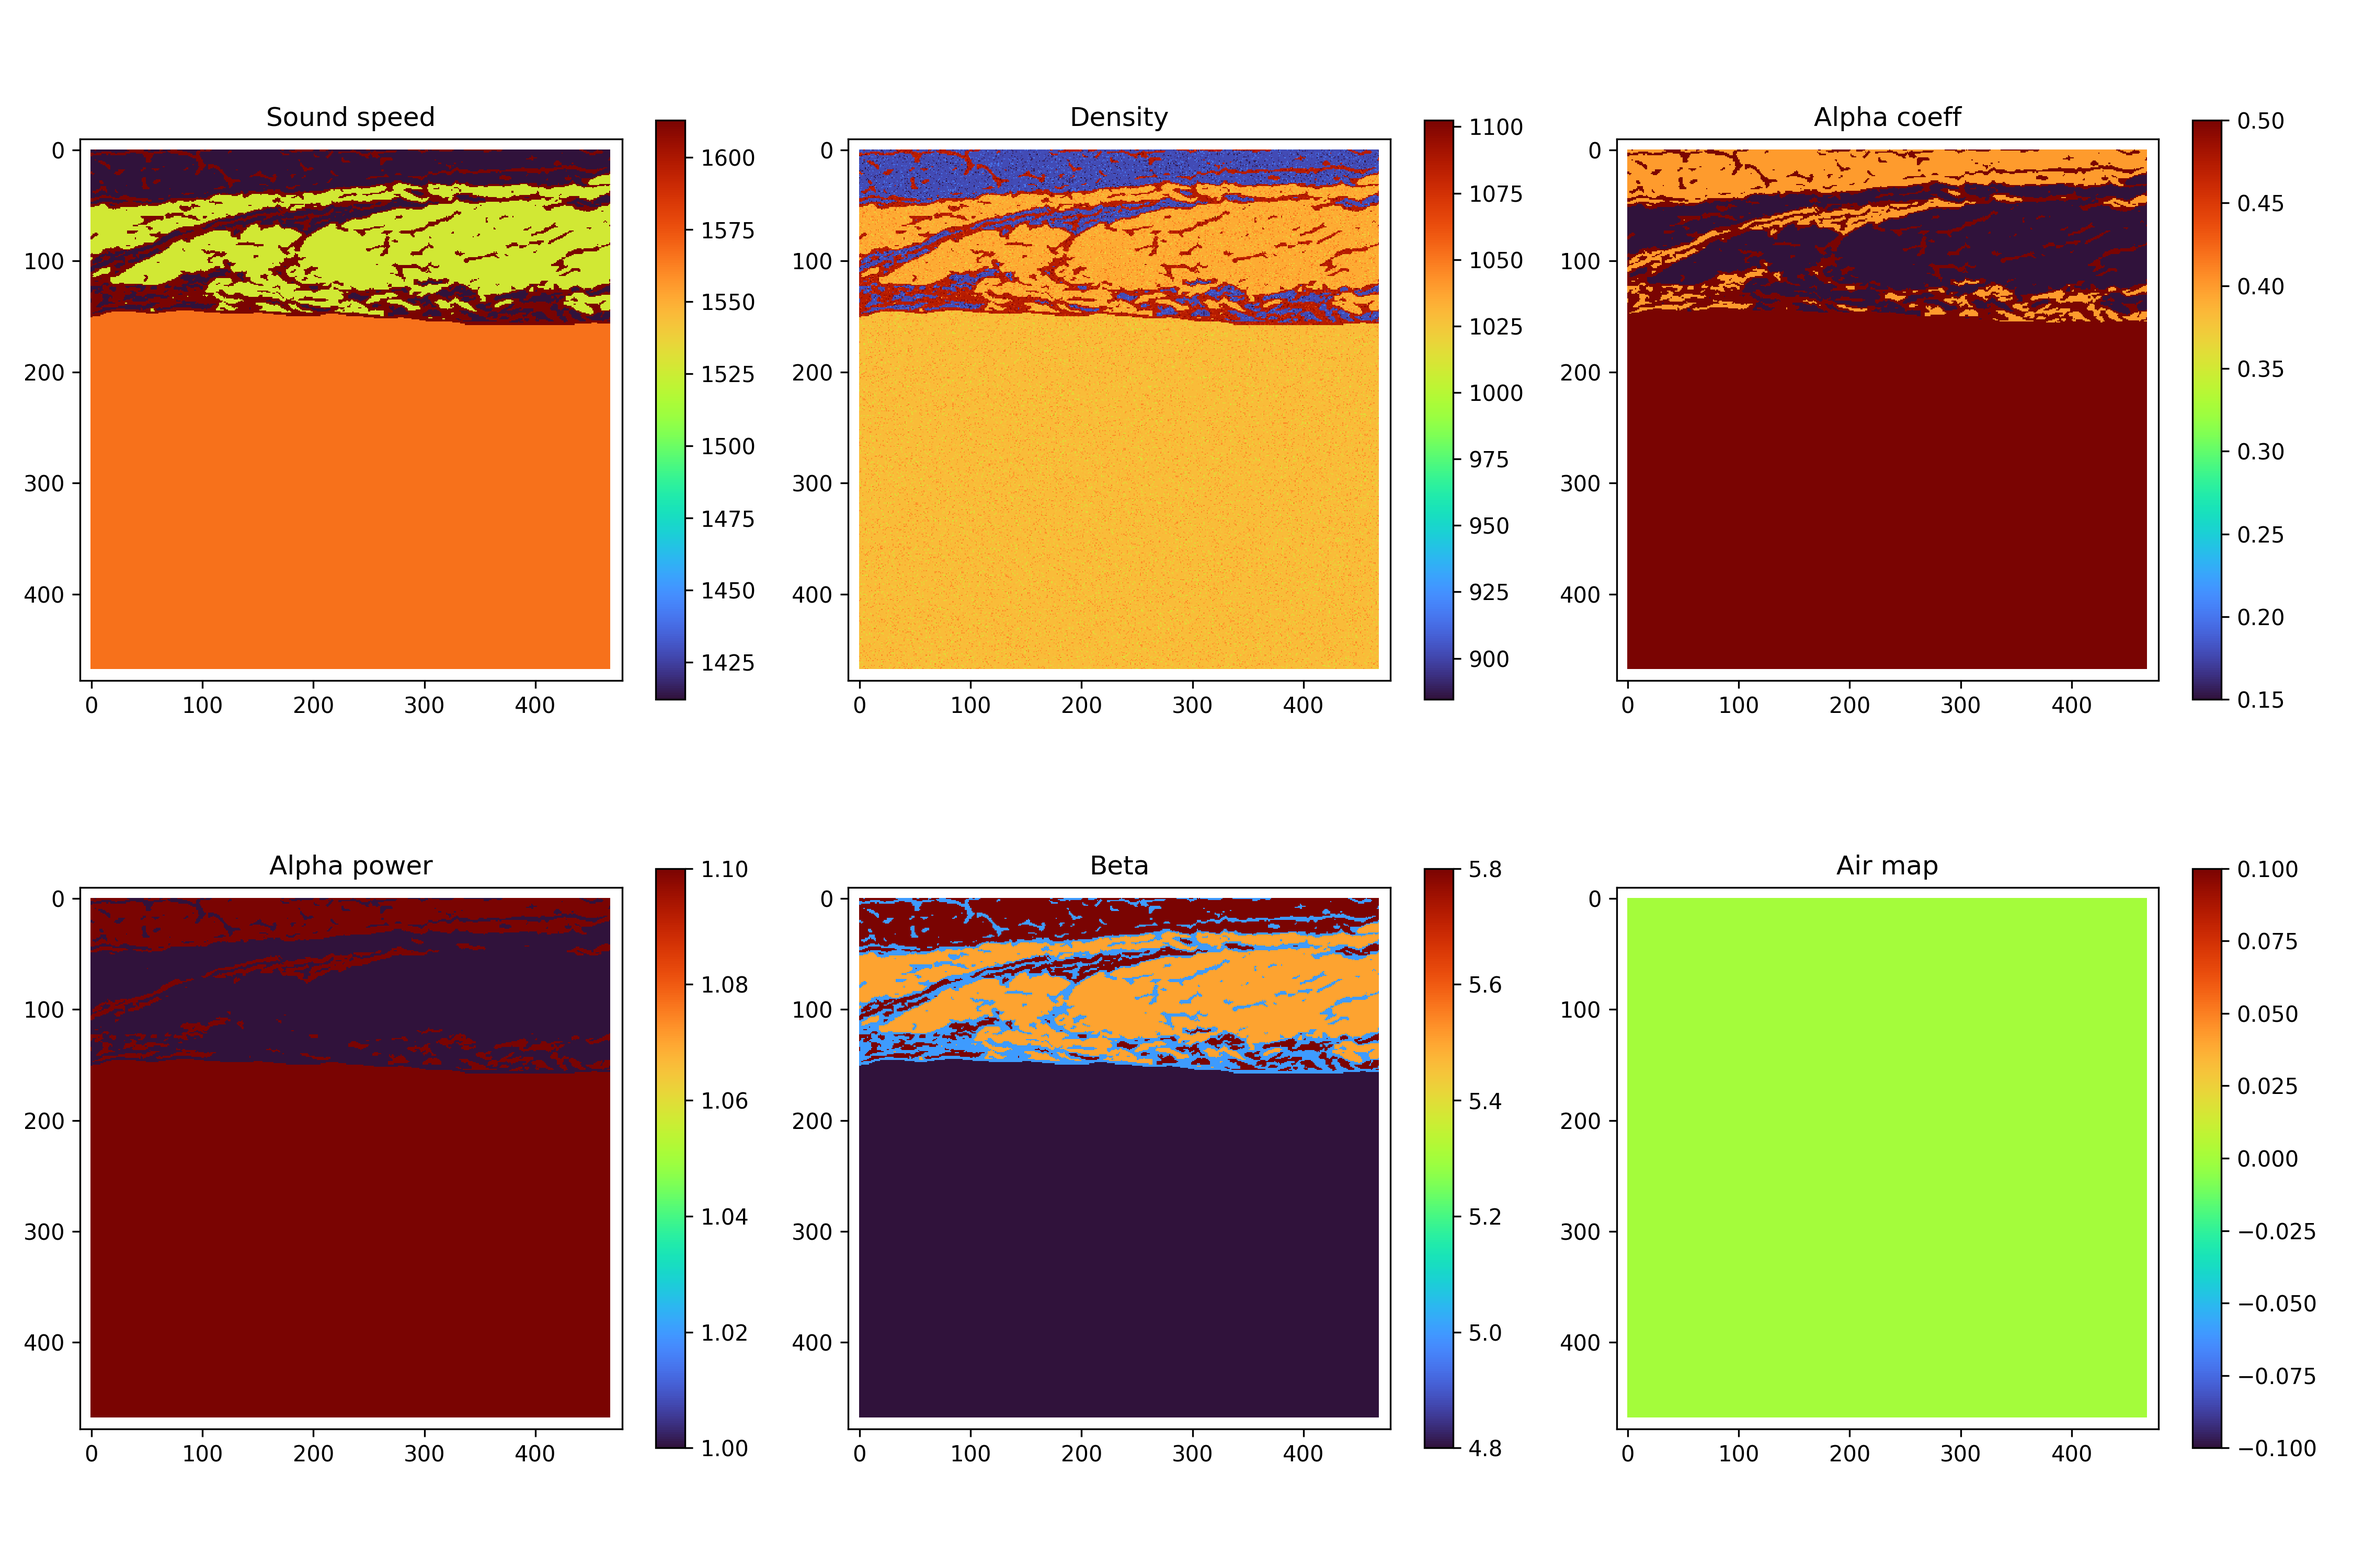
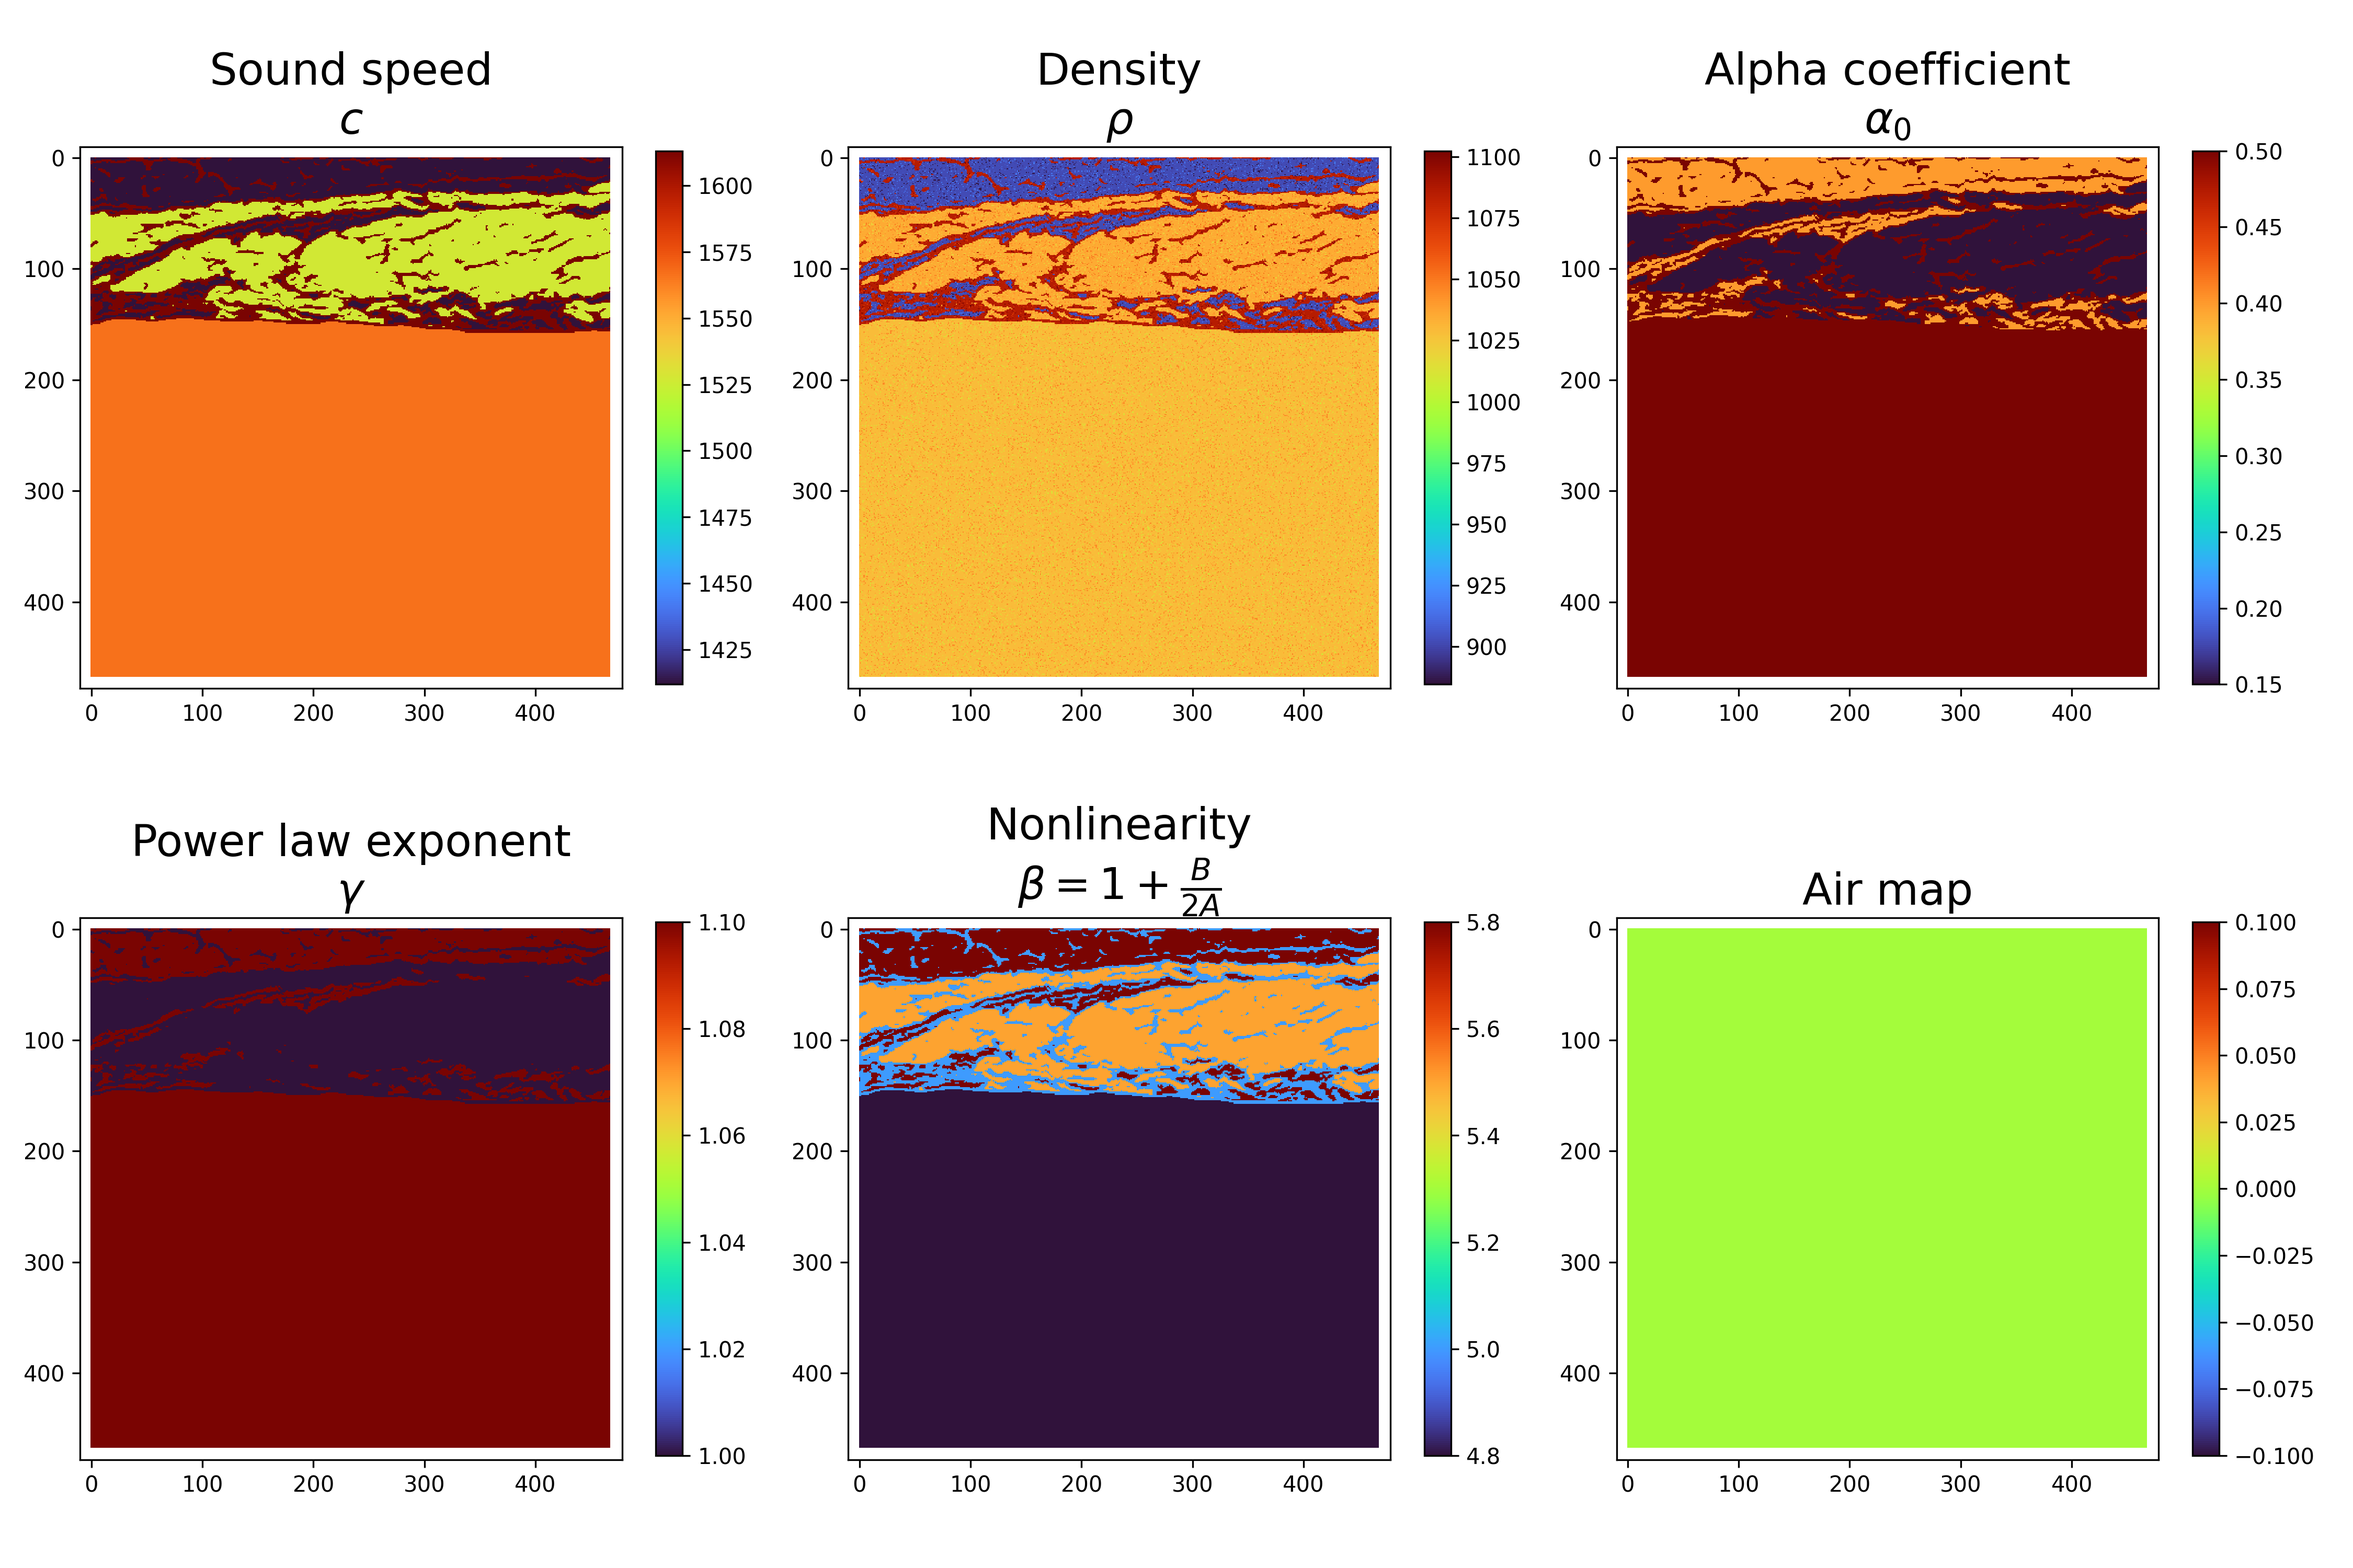
updated the medium map

diff --git a/fullwave/medium.py b/fullwave/medium.py
@@ -795,6 +795,7 @@ class Medium:
         show: bool = False,
         cmap: str = "turbo",
         figsize: tuple = (20, 6),
+        fontsize_title: int = 20,
     ) -> None:
         """Plot the medium fields using matplotlib."""
         if self.is_3d:
@@ -859,7 +860,29 @@ class Medium:
                     self.beta,
                     self.air_map,
                 ],
-                ["Sound speed", "Density", "Alpha coeff", "Alpha power", "Beta", "Air map"],
+                [
+                    (
+                        "Sound speed\n"
+                        r"$c$"
+                    ),
+                    (
+                        "Density\n"
+                        r"$\rho$"
+                    ),
+                    (
+                        "Alpha coefficient\n"
+                        r"$\alpha_0$"
+                    ),
+                    (
+                        "Power law exponent\n"
+                        r"$\gamma$"
+                    ),
+                    (
+                        "Nonlinearity\n"
+                        r"$\beta=1+\frac{B}{2A}$"
+                    ),
+                    "Air map",
+                ],
                 strict=False,
             ):
                 plot_utils.plot_array_on_ax(
@@ -871,6 +894,7 @@ class Medium:
                     reverse_y_axis=True,
                     cmap=cmap,
                 )
+                ax.title.set_fontsize(fontsize_title)
             plt.tight_layout()
 
             if export_path is not None:
